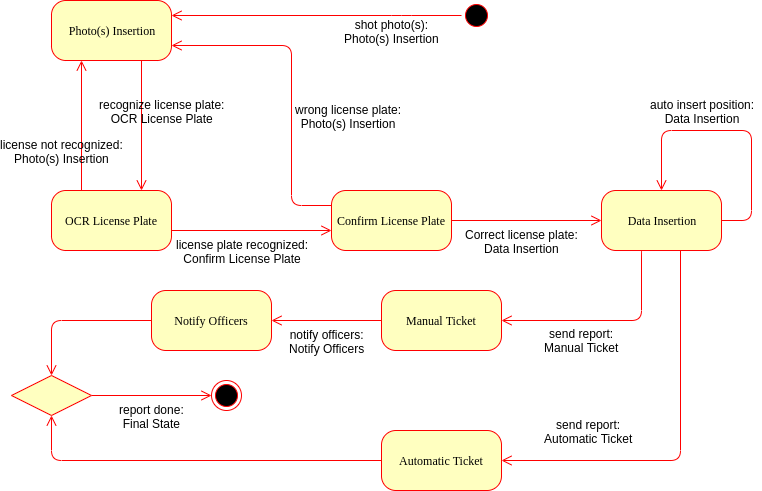
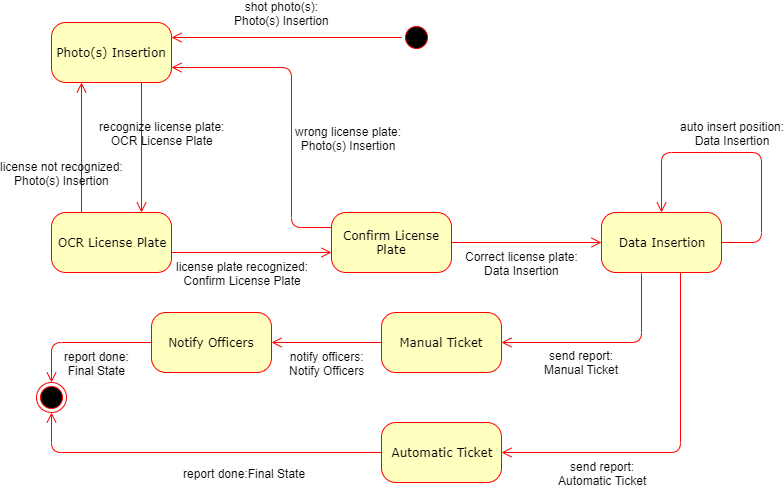
Add state diagrams

diff --git a/RASD/main.tex b/RASD/main.tex
@@ -68,7 +68,7 @@
 	\input{sections/section2/productPerspective}
 	\subsection{Class Diagram}
 	\input{sections/section3/classDiagram}
-	\subsection{State and Activity Diagrams}
+	\subsection{State Diagrams}
 	\input{diagrams/images/diagrams}
 	\subsection{Product functionalities}
 	\input{sections/section2/productFunctionalities}
